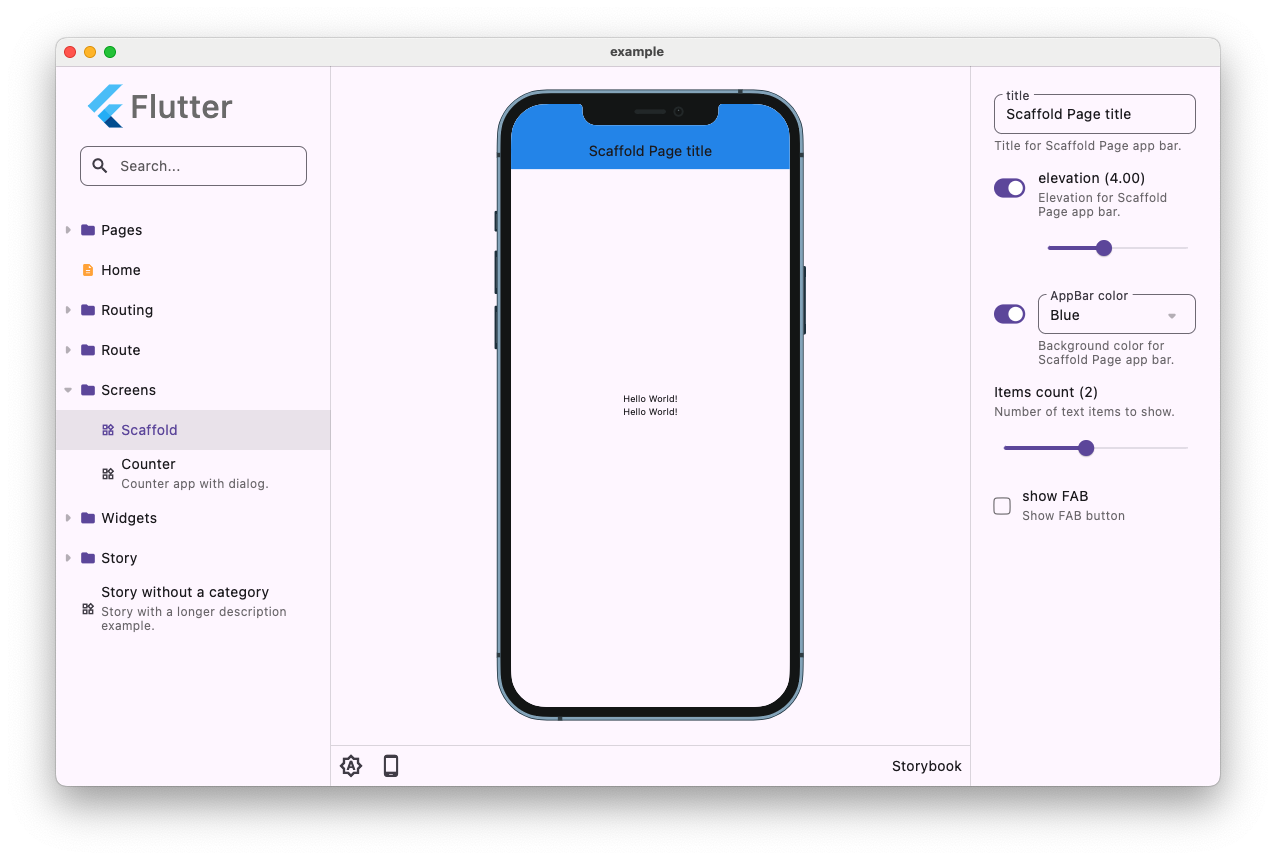
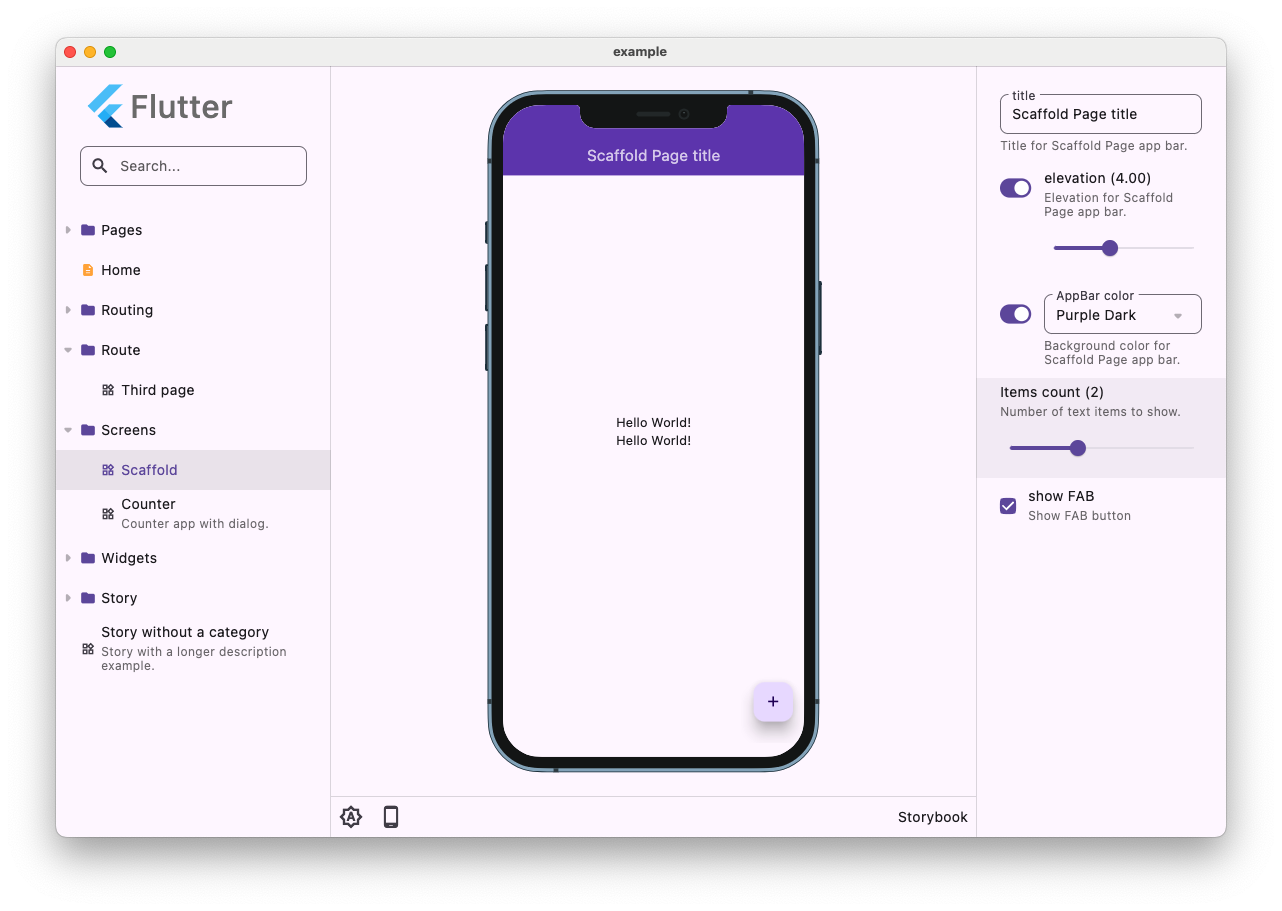
Update screenshot

diff --git a/example/lib/stories/scaffold_page.dart b/example/lib/stories/scaffold_page.dart
@@ -24,12 +24,24 @@ class ScaffoldPage extends StatelessWidget {
 
     final backgroundColorKnob = context.knobs.nullable.options(
       label: 'AppBar color',
-      initial: Colors.blue,
+      initial: Colors.deepPurple,
       description: 'Background color for Scaffold Page app bar.',
       options: const [
         Option(
           label: 'Blue',
           value: Colors.blue,
+        ),
+        Option(
+          label: 'Purple',
+          value: Colors.purple,
+        ),
+        Option(
+          label: 'Purple Dark',
+          value: Colors.deepPurple,
+        ),
+        Option(
+          label: 'Purple Deep',
+          value: Colors.deepPurpleAccent,
         ),
         Option(
           label: 'Indigo Accent',
@@ -54,7 +66,12 @@ class ScaffoldPage extends StatelessWidget {
     return Scaffold(
       extendBodyBehindAppBar: true,
       appBar: AppBar(
-        title: Text(titleKnob),
+        title: Text(
+          titleKnob,
+          style: TextStyle(
+            color: Colors.white.withOpacity(0.75),
+          ),
+        ),
         elevation: elevationKnob,
         backgroundColor: backgroundColorKnob,
       ),
@@ -65,7 +82,7 @@ class ScaffoldPage extends StatelessWidget {
           crossAxisAlignment: CrossAxisAlignment.center,
           children: List.generate(
             itemCountKnob,
-            (int _) => const Text('Hello World!'),
+            (int _) => const Text('Hello World!', style: TextStyle(fontSize: 18),),
           ),
         ),
       ),
